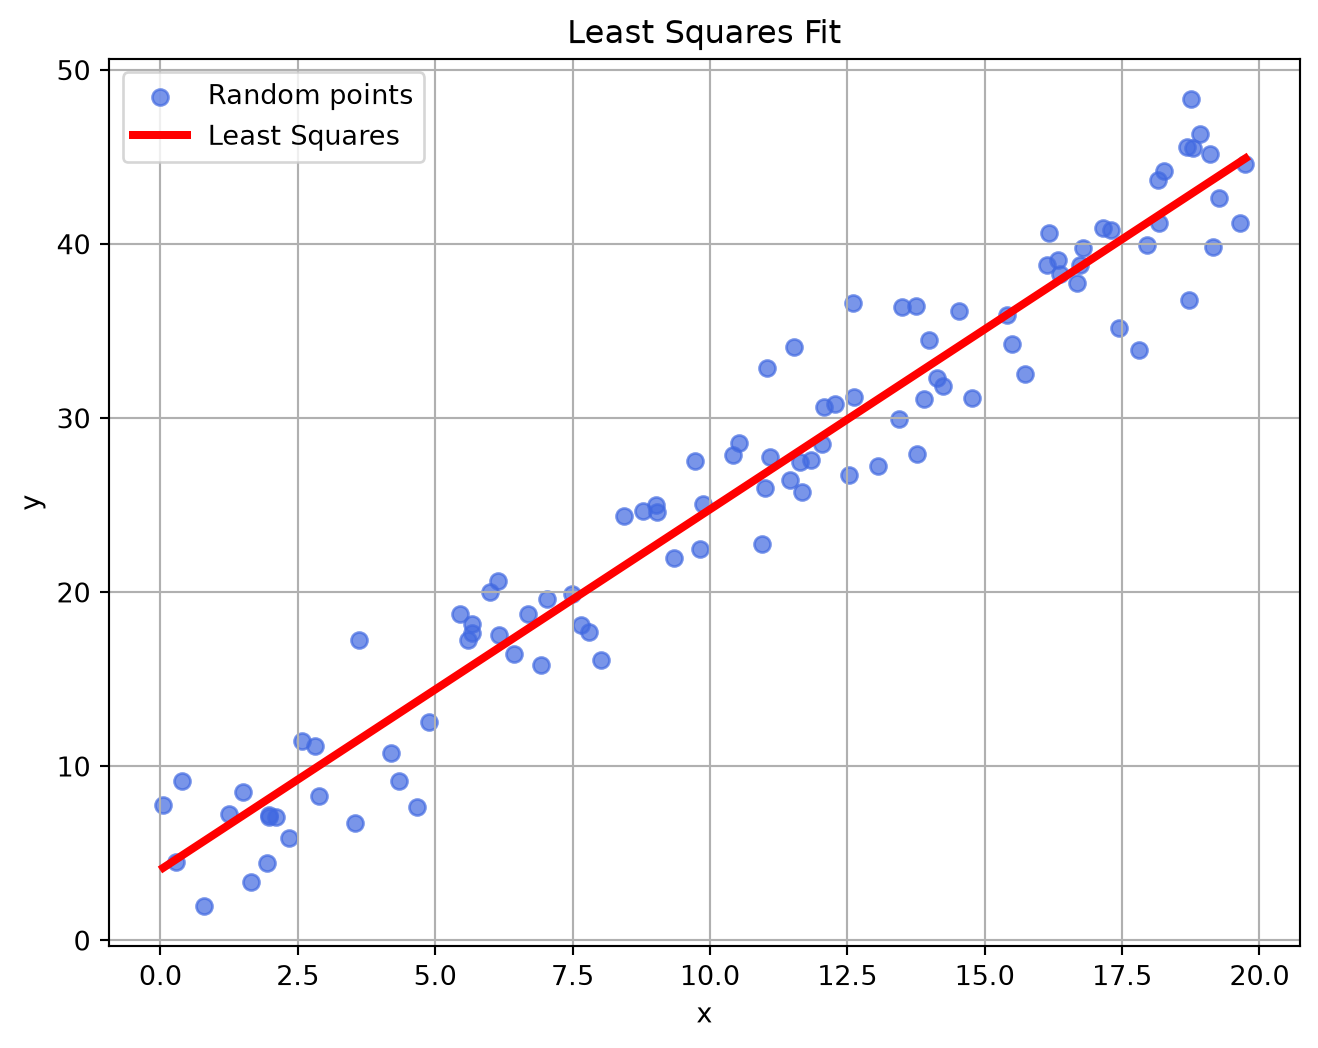
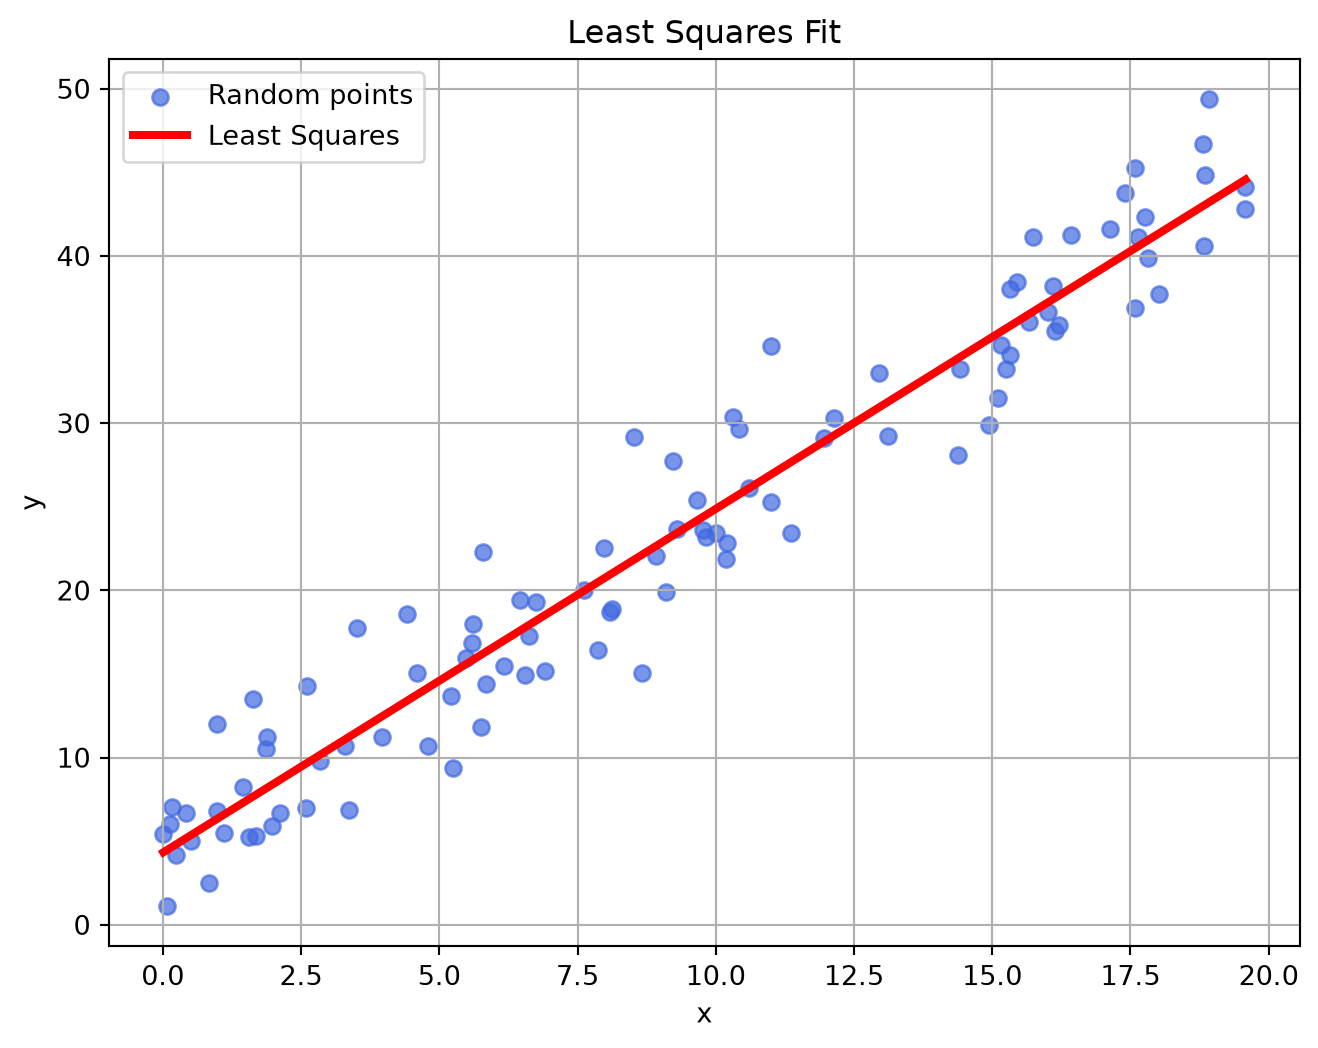
updateindex

diff --git a/_site/note/multivariable-calculus/index.html b/_site/note/multivariable-calculus/index.html
@@ -390,7 +390,7 @@ ul.task-list li input[type="checkbox"] {
   <ul>
   <li><a href="#vector-và-ma-trận---vectors-and-matrices" id="toc-vector-và-ma-trận---vectors-and-matrices" class="nav-link active" data-scroll-target="#vector-và-ma-trận---vectors-and-matrices">1. Vector và ma trận - Vectors and Matrices</a></li>
   <li><a href="#đạo-hàm-riêng---partial-derivatives" id="toc-đạo-hàm-riêng---partial-derivatives" class="nav-link" data-scroll-target="#đạo-hàm-riêng---partial-derivatives">2. Đạo hàm riêng - Partial derivatives</a></li>
-  <li><a href="#tích-phân-kép-và-tích-phân-đường-trong-mặt-phẳng---doule-integrals-and-line-integrals-in-the-plane" id="toc-tích-phân-kép-và-tích-phân-đường-trong-mặt-phẳng---doule-integrals-and-line-integrals-in-the-plane" class="nav-link" data-scroll-target="#tích-phân-kép-và-tích-phân-đường-trong-mặt-phẳng---doule-integrals-and-line-integrals-in-the-plane">3. Tích phân kép và tích phân đường trong mặt phẳng - Doule integrals and Line integrals in the plane</a></li>
+  <li><a href="#tích-phân-kép-và-tích-phân-đường-trong-mặt-phẳng---double-integrals-and-line-integrals-in-the-plane" id="toc-tích-phân-kép-và-tích-phân-đường-trong-mặt-phẳng---double-integrals-and-line-integrals-in-the-plane" class="nav-link" data-scroll-target="#tích-phân-kép-và-tích-phân-đường-trong-mặt-phẳng---double-integrals-and-line-integrals-in-the-plane">3. Tích phân kép và tích phân đường trong mặt phẳng - Double integrals and Line integrals in the plane</a></li>
   <li><a href="#tích-phân-bội-ba-và-tích-phân-mặt-trong-không-gian-ba-chiều---triple-integrals-and-surface-integrals-in-the-3-space" id="toc-tích-phân-bội-ba-và-tích-phân-mặt-trong-không-gian-ba-chiều---triple-integrals-and-surface-integrals-in-the-3-space" class="nav-link" data-scroll-target="#tích-phân-bội-ba-và-tích-phân-mặt-trong-không-gian-ba-chiều---triple-integrals-and-surface-integrals-in-the-3-space">4. Tích phân bội ba và tích phân mặt trong không gian ba chiều - Triple integrals and Surface integrals in the 3-space</a></li>
   </ul>
 </nav>
@@ -422,30 +422,55 @@ ul.task-list li input[type="checkbox"] {
 <section id="vector-và-ma-trận---vectors-and-matrices" class="level1">
 <h1>1. Vector và ma trận - Vectors and Matrices</h1>
 <ul>
-<li><strong>1.0</strong> Vectors</li>
-<li><strong>1.1</strong> Dot product</li>
-<li><strong>1.2</strong> Determinants; Cross product</li>
-<li><strong>1.3</strong> Matrices; Inverse Matrices</li>
-<li><strong>1.4</strong> Square systems; Equation of planes</li>
-<li><strong>1.5</strong> Parametric equations for lines and curves</li>
-<li><strong>1.6</strong> Velocity, Acceleration; Kepler’s second law</li>
+<li><strong>1.1.</strong> Vectors</li>
+<li><strong>1.2.</strong> Dot product</li>
+<li><strong>1.3.</strong> Determinants</li>
+<li><strong>1.4.</strong> Cross product</li>
+<li><strong>1.5.</strong> Matrices</li>
+<li><strong>1.6.</strong> Square systems; Equation of planes</li>
+<li><strong>1.7.</strong> Parametric equations for lines and curves</li>
+<li><strong>1.8.</strong> Velocity</li>
+<li><strong>1.9.</strong> Acceleration</li>
+<li><strong>1.10.</strong> Kepler’s Second law</li>
 </ul>
 <hr>
 </section>
 <section id="đạo-hàm-riêng---partial-derivatives" class="level1">
 <h1>2. Đạo hàm riêng - Partial derivatives</h1>
 <ul>
-<li><strong>2.1</strong> Level curves; Partial derivatives; Tangent plane approximation</li>
-<li><strong>2.2</strong> Max-Min problmes; Least squares</li>
-<li><strong>2.3</strong> Differentials; Chain rule</li>
-<li><strong>2.4</strong> Gradient ; Directional derivative; Tangent plane</li>
-<li><strong>2.5</strong> Lagrange multipliers</li>
-<li><strong>2.6</strong> Non-independent variables</li>
+<li><strong>2.1.</strong> Functions of several variables - <em>Hàm nhiều biến</em>
+<ul>
+<li><strong>2.1.1.</strong> Contour plot - <em>Đồ thị đường bao</em></li>
+</ul></li>
+<li><strong>2.2.</strong> Parital derivatives - <em>Đạo hàm riêng</em></li>
+<li><strong>2.3.</strong> Tangent plane approx - <em>Mặt phẳng tiếp tuyến</em>
+<ul>
+<li><strong>2.3.1.</strong> Appox formula - <em>Công thức xấp xỉ</em></li>
+<li><strong>2.3.2.</strong> Tangent plane - <em>Mặt phẳng tiếp tuyến</em></li>
+</ul></li>
+<li><strong>2.4.</strong> Max - Min problems - <em>Bài toán cực trị</em>
+<ul>
+<li><strong>2.4.1.</strong> Max point - <em>Điểm cực đại</em></li>
+<li><strong>2.4.2.</strong> Min point - <em>Điểm cực tiểu</em></li>
+<li><strong>2.4.3.</strong> Saddle point - <em>Điểm yên ngựa</em></li>
+</ul></li>
+<li><strong>2.5.</strong> Least squares - <em>Bài toán tối ưu</em></li>
+<li><strong>2.6.</strong> Second derivative - <em>Đạo hàm bậc hai</em></li>
+<li><strong>2.7.</strong> Differentials; Chain rule
+<ul>
+<li><strong>2.7.1.</strong> Total differential - <em>Đạo hàm toàn phần</em></li>
+<li><strong>2.7.2.</strong> Chain rule - <em>Quy tắc chuỗi</em></li>
+<li><strong>2.7.3.</strong> Application - <em>Ứng dụng</em></li>
+</ul></li>
+<li><strong>2.8.</strong> Gradient - <em>Gradient</em></li>
+<li><strong>2.9.</strong> Direction derivative - <em>Đạo hàm theo hướng</em></li>
+<li><strong>2.10.</strong> Lagrange multipliers - <em>Nhân tử Lagrange</em></li>
+<li><strong>2.11.</strong> Non-independent variables - <em>Các biến phụ thuộc</em></li>
 </ul>
 <hr>
 </section>
-<section id="tích-phân-kép-và-tích-phân-đường-trong-mặt-phẳng---doule-integrals-and-line-integrals-in-the-plane" class="level1">
-<h1>3. Tích phân kép và tích phân đường trong mặt phẳng - Doule integrals and Line integrals in the plane</h1>
+<section id="tích-phân-kép-và-tích-phân-đường-trong-mặt-phẳng---double-integrals-and-line-integrals-in-the-plane" class="level1">
+<h1>3. Tích phân kép và tích phân đường trong mặt phẳng - Double integrals and Line integrals in the plane</h1>
 <ul>
 <li><strong>3.1</strong> Double integrals</li>
 <li><strong>3.2</strong> Double integrals in polar coordinates; Applications</li>

diff --git a/_site/note/multivariable-calculus/2.html b/_site/note/multivariable-calculus/2.html
@@ -550,7 +550,7 @@ window.Quarto = {
 <h1>Functions of several variables</h1>
 <p>Như ta đã tiếp xúc với hàm đơn biến từ trước, ví dụ như <span class="math inline">f(x) = x^2</span> hay <span class="math inline">f(x) = -x + 2</span>. Thì trong không gian 3 chiều, hay tổng quát hơn là n chiều, chúng ta cũng có thể biểu diễn nó bằng <span class="math inline">n - 1</span> biến.</p>
 <p>Ví dụ: Hàm <span class="math inline">f(x, y) = x^2 + y^2</span></p>
-<div id="[phone redacted]" class="cell" data-execution_count="1">
+<div id="7549d409" class="cell" data-execution_count="1">
 <details class="code-fold">
 <summary>Code</summary>
 <div class="code-copy-outer-scaffold"><div class="sourceCode cell-code" id="cb1"><pre class="sourceCode python code-with-copy"><code class="sourceCode python"><span id="cb1-1"><a href="#cb1-1" aria-hidden="true" tabindex="-1"></a><span class="im">import</span> numpy <span class="im">as</span> np</span>
@@ -598,7 +598,7 @@ window.Quarto = {
 f_x = \frac {\partial f}{\partial x} = \lim _{\Delta x \rightarrow 0} \frac{f(x_0 + \Delta x, y_0) - f(x_0, y_0)}{\Delta x} \\[10pt]
 f_y = \frac {\partial f}{\partial x} = \lim _{\Delta y \rightarrow 0} \frac{f(x_0, y_0 + \Delta y) - f(x_0, y_0)}{\Delta y}
 </span></p>
-<div id="76d5f905" class="cell" data-execution_count="2">
+<div id="5600afd9" class="cell" data-execution_count="2">
 <div class="cell-output cell-output-display">
 <div>
 <figure class="figure">
@@ -611,7 +611,7 @@ f_y = \frac {\partial f}{\partial x} = \lim _{\Delta y \rightarrow 0} \frac{f(x_
 <h2 class="anchored" data-anchor-id="cách-tính-đạo-hàm-từng-phần">Cách tính đạo hàm từng phần</h2>
 <p>Như đã nói ở trước, ta sẽ coi một biến là hằng số.</p>
 <p>Ví dụ hàm <span class="math inline">f(x, y) = x^2 + x^3y + 2y + 3x</span></p>
-<div id="e9d0dbe9" class="cell" data-execution_count="3">
+<div id="8649b1f6" class="cell" data-execution_count="3">
 <details class="code-fold">
 <summary>Code</summary>
 <div class="code-copy-outer-scaffold"><div class="sourceCode cell-code" id="cb2"><pre class="sourceCode python code-with-copy"><code class="sourceCode python"><span id="cb2-1"><a href="#cb2-1" aria-hidden="true" tabindex="-1"></a><span class="im">import</span> numpy <span class="im">as</span> np</span>
@@ -676,7 +676,7 @@ f_y = \frac {\partial f}{\partial x} = \lim _{\Delta y \rightarrow 0} \frac{f(x_
 <p>Tương tự vậy với mặt phẳng 3D, tiếp tuyến của điểm là mặt phẳng 2D tạo bởi 2 đường tiếp tuyến khi đạo hàm theo x và đạo hàm theo y tại điểm đó.</p>
 <p>Ví dụ: <span class="math inline">f(x, y) = x^2 + y^2</span></p>
 <p>Ta xét tại điểm <span class="math inline">(x_0, y_0) = (1, 1)</span>, mặt phẳng tiếp tuyến là mặt phẳng màu cam trong hình.</p>
-<div id="dc5f1121" class="cell" data-execution_count="4">
+<div id="f0b6cde0" class="cell" data-execution_count="4">
 <details class="code-fold">
 <summary>Code</summary>
 <div class="code-copy-outer-scaffold"><div class="sourceCode cell-code" id="cb3"><pre class="sourceCode python code-with-copy"><code class="sourceCode python"><span id="cb3-1"><a href="#cb3-1" aria-hidden="true" tabindex="-1"></a><span class="im">import</span> numpy <span class="im">as</span> np</span>
@@ -750,7 +750,7 @@ f_y = \frac {\partial f}{\partial x} = \lim _{\Delta y \rightarrow 0} \frac{f(x_
 <p>Nhưng cũng vì thế mà sẽ có 3 trường hợp xảy ra:</p>
 <section id="điểm-cực-tiểu" class="level2">
 <h2 class="anchored" data-anchor-id="điểm-cực-tiểu">Điểm cực tiểu</h2>
-<div id="4ffcb8c6" class="cell" data-execution_count="5">
+<div id="5061a131" class="cell" data-execution_count="5">
 <details class="code-fold">
 <summary>Code</summary>
 <div class="code-copy-outer-scaffold"><div class="sourceCode cell-code" id="cb4"><pre class="sourceCode python code-with-copy"><code class="sourceCode python"><span id="cb4-1"><a href="#cb4-1" aria-hidden="true" tabindex="-1"></a><span class="im">import</span> numpy <span class="im">as</span> np</span>
@@ -820,7 +820,7 @@ f_y = \frac {\partial f}{\partial x} = \lim _{\Delta y \rightarrow 0} \frac{f(x_
 </section>
 <section id="điểm-cực-đại" class="level2">
 <h2 class="anchored" data-anchor-id="điểm-cực-đại">Điểm cực đại</h2>
-<div id="32ff31c9" class="cell" data-execution_count="6">
+<div id="258a3797" class="cell" data-execution_count="6">
 <details class="code-fold">
 <summary>Code</summary>
 <div class="code-copy-outer-scaffold"><div class="sourceCode cell-code" id="cb5"><pre class="sourceCode python code-with-copy"><code class="sourceCode python"><span id="cb5-1"><a href="#cb5-1" aria-hidden="true" tabindex="-1"></a><span class="im">import</span> numpy <span class="im">as</span> np</span>
@@ -891,7 +891,7 @@ f_y = \frac {\partial f}{\partial x} = \lim _{\Delta y \rightarrow 0} \frac{f(x_
 <section id="điểm-saddle" class="level2">
 <h2 class="anchored" data-anchor-id="điểm-saddle">Điểm saddle</h2>
 <p>Vừa là cực dại vừa là cực tiểu.</p>
-<div id="c37fa631" class="cell" data-execution_count="7">
+<div id="9e28be64" class="cell" data-execution_count="7">
 <details class="code-fold">
 <summary>Code</summary>
 <div class="code-copy-outer-scaffold"><div class="sourceCode cell-code" id="cb6"><pre class="sourceCode python code-with-copy"><code class="sourceCode python"><span id="cb6-1"><a href="#cb6-1" aria-hidden="true" tabindex="-1"></a><span class="im">import</span> numpy <span class="im">as</span> np</span>
@@ -963,7 +963,7 @@ f_y = \frac {\partial f}{\partial x} = \lim _{\Delta y \rightarrow 0} \frac{f(x_
 </section>
 <section id="least-squares" class="level1">
 <h1>Least squares</h1>
-<div id="16bc24e1" class="cell" data-execution_count="8">
+<div id="ffde3120" class="cell" data-execution_count="8">
 <details class="code-fold">
 <summary>Code</summary>
 <div class="code-copy-outer-scaffold"><div class="sourceCode cell-code" id="cb7"><pre class="sourceCode python code-with-copy"><code class="sourceCode python"><span id="cb7-1"><a href="#cb7-1" aria-hidden="true" tabindex="-1"></a><span class="im">import</span> numpy <span class="im">as</span> np</span>
@@ -1236,7 +1236,7 @@ f = t^2 e^t + \sin t
 <p><strong>Định nghĩa:</strong> <span class="math inline">\nabla f = &lt;f_x, f_y, f_z&gt;</span> - Là một vector Gradient.</p>
 <p>Khi đó thì vector sẽ vuông góc với mặt phẳng, và có hướng về phía mà có f(x, y, z) cao hơn. (Tức là nếu nó ở đoạn sườn dốc của một ngọn núi, thì nó sẽ nhìn lên phía trên đỉnh thay vì nhìn xuống dưới chân núi).</p>
 <p><strong>Ví dụ:</strong> Sau đây là một hàm bất kỳ, ta vẽ được như sau:</p>
-<div id="1f3b9e99" class="cell" data-execution_count="9">
+<div id="772052a8" class="cell" data-execution_count="9">
 <details class="code-fold">
 <summary>Code</summary>
 <div class="code-copy-outer-scaffold"><div class="sourceCode cell-code" id="cb8"><pre class="sourceCode python code-with-copy"><code class="sourceCode python"><span id="cb8-1"><a href="#cb8-1" aria-hidden="true" tabindex="-1"></a><span class="im">import</span> numpy <span class="im">as</span> np</span>
@@ -1269,7 +1269,7 @@ f = t^2 e^t + \sin t
 </div>
 </div>
 <p>có contour plot là:</p>
-<div id="8adb8bb3" class="cell" data-execution_count="10">
+<div id="43eef99e" class="cell" data-execution_count="10">
 <details class="code-fold">
 <summary>Code</summary>
 <div class="code-copy-outer-scaffold"><div class="sourceCode cell-code" id="cb9"><pre class="sourceCode python code-with-copy"><code class="sourceCode python"><span id="cb9-1"><a href="#cb9-1" aria-hidden="true" tabindex="-1"></a><span class="im">import</span> numpy <span class="im">as</span> np</span>
@@ -1302,7 +1302,7 @@ f = t^2 e^t + \sin t
 </div>
 </div>
 <p>và vector gradient được vẽ màu đỏ như sau:</p>
-<div id="94f70da4" class="cell" data-execution_count="11">
+<div id="e45d4027" class="cell" data-execution_count="11">
 <details class="code-fold">
 <summary>Code</summary>
 <div class="code-copy-outer-scaffold"><div class="sourceCode cell-code" id="cb10"><pre class="sourceCode python code-with-copy"><code class="sourceCode python"><span id="cb10-1"><a href="#cb10-1" aria-hidden="true" tabindex="-1"></a><span class="im">import</span> numpy <span class="im">as</span> np</span>
@@ -1360,7 +1360,7 @@ f_x\frac{\mathbf dz}{\mathbf dt}
 \frac{\mathbf d \vec r}{\mathbf dt} = &lt;\frac{\mathbf dx}{\mathbf dt},\frac{\mathbf dy}{\mathbf dt},\frac{\mathbf dz}{\mathbf dt}&gt;
 </span></p>
 <hr>
-<div id="bf096f53" class="cell" data-execution_count="12">
+<div id="640a6d68" class="cell" data-execution_count="12">
 <details class="code-fold">
 <summary>Code</summary>
 <div class="code-copy-outer-scaffold"><div class="sourceCode cell-code" id="cb11"><pre class="sourceCode python code-with-copy"><code class="sourceCode python"><span id="cb11-1"><a href="#cb11-1" aria-hidden="true" tabindex="-1"></a><span class="im">import</span> numpy <span class="im">as</span> np</span>